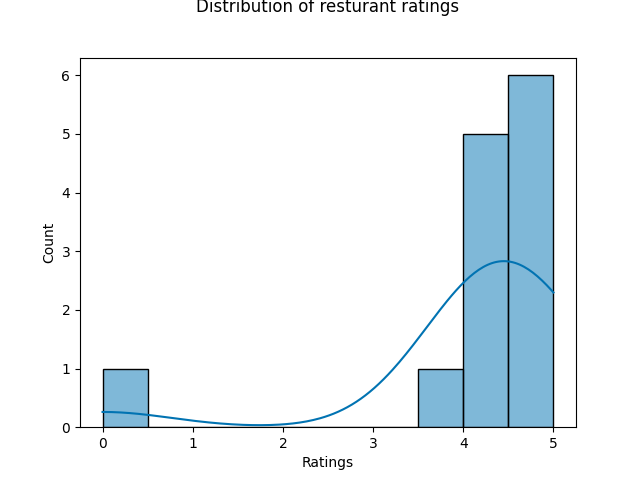
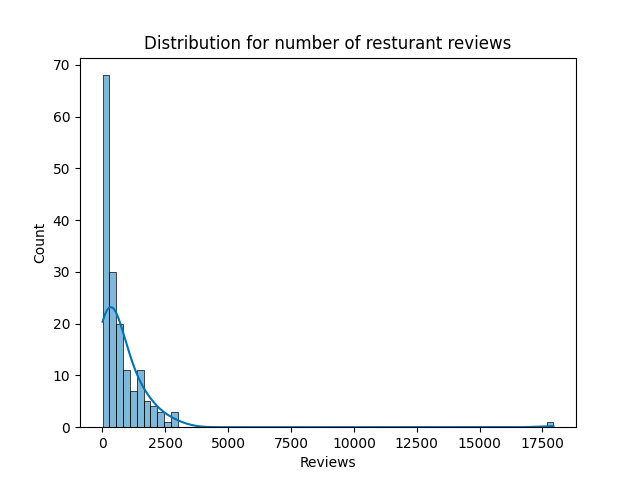
Correcting error in question 3

diff --git a/question3.py b/question3.py
@@ -5,13 +5,23 @@ import seaborn as sns
 # Reading file to dataframe
 coffee = pd.read_csv('coffee_clean.csv')
 
-# to count how many stores go each potential rating
-stores_grouped_rating = coffee.value_counts('Rating')
+# To count number of reviews
+stores_grouped_rating = coffee.value_counts('Reviews')
 
 print(stores_grouped_rating)
 
 sns.set_palette("colorblind")
 sns.histplot(stores_grouped_rating.index, kde=True)
-plt.title('Distribution of resturant ratings', y=1.1)
-plt.xlabel('Ratings')
+plt.title('Distribution for number of resturant reviews')
+plt.xlabel('Reviews')
 plt.savefig('question3_visual.png', format='png')
+
+plt.clf()
+
+stores_grouped_rating_clean = stores_grouped_rating.drop(17937.0)
+
+sns.set_palette('colorblind')
+sns.histplot(stores_grouped_rating_clean.index, kde=True)
+plt.title('Distribution for number of resturant reviews', y=1.05)
+plt.xlabel('Reviews')
+plt.savefig('question3_visual_clean.png', format='png')

diff --git a/question4.py b/question4.py
@@ -1,0 +1,6 @@
+# create visual better
+import pandas as pd
+import matplotlib.pyplot as plt
+import seaborn as sns
+# Reading file to dataframe
+coffee = pd.read_csv('coffee_clean.csv')
